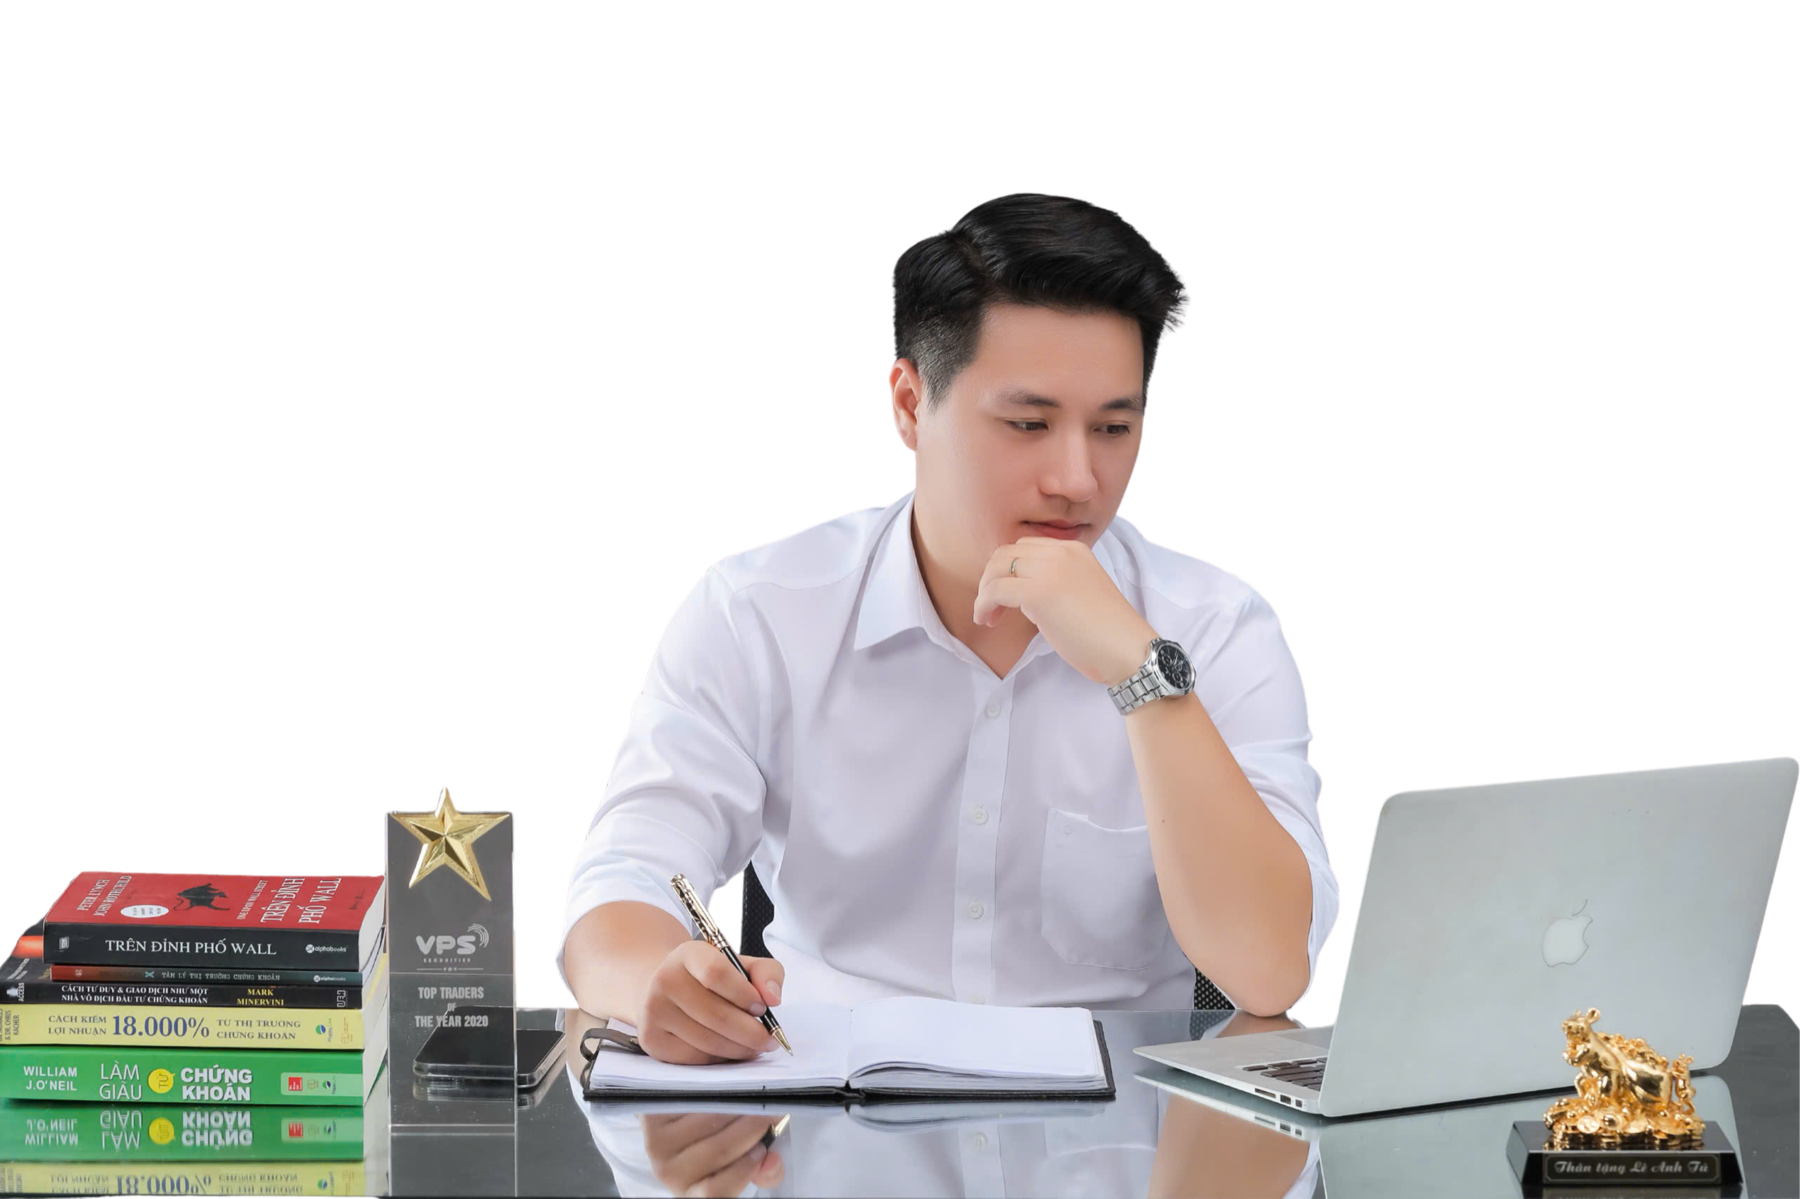
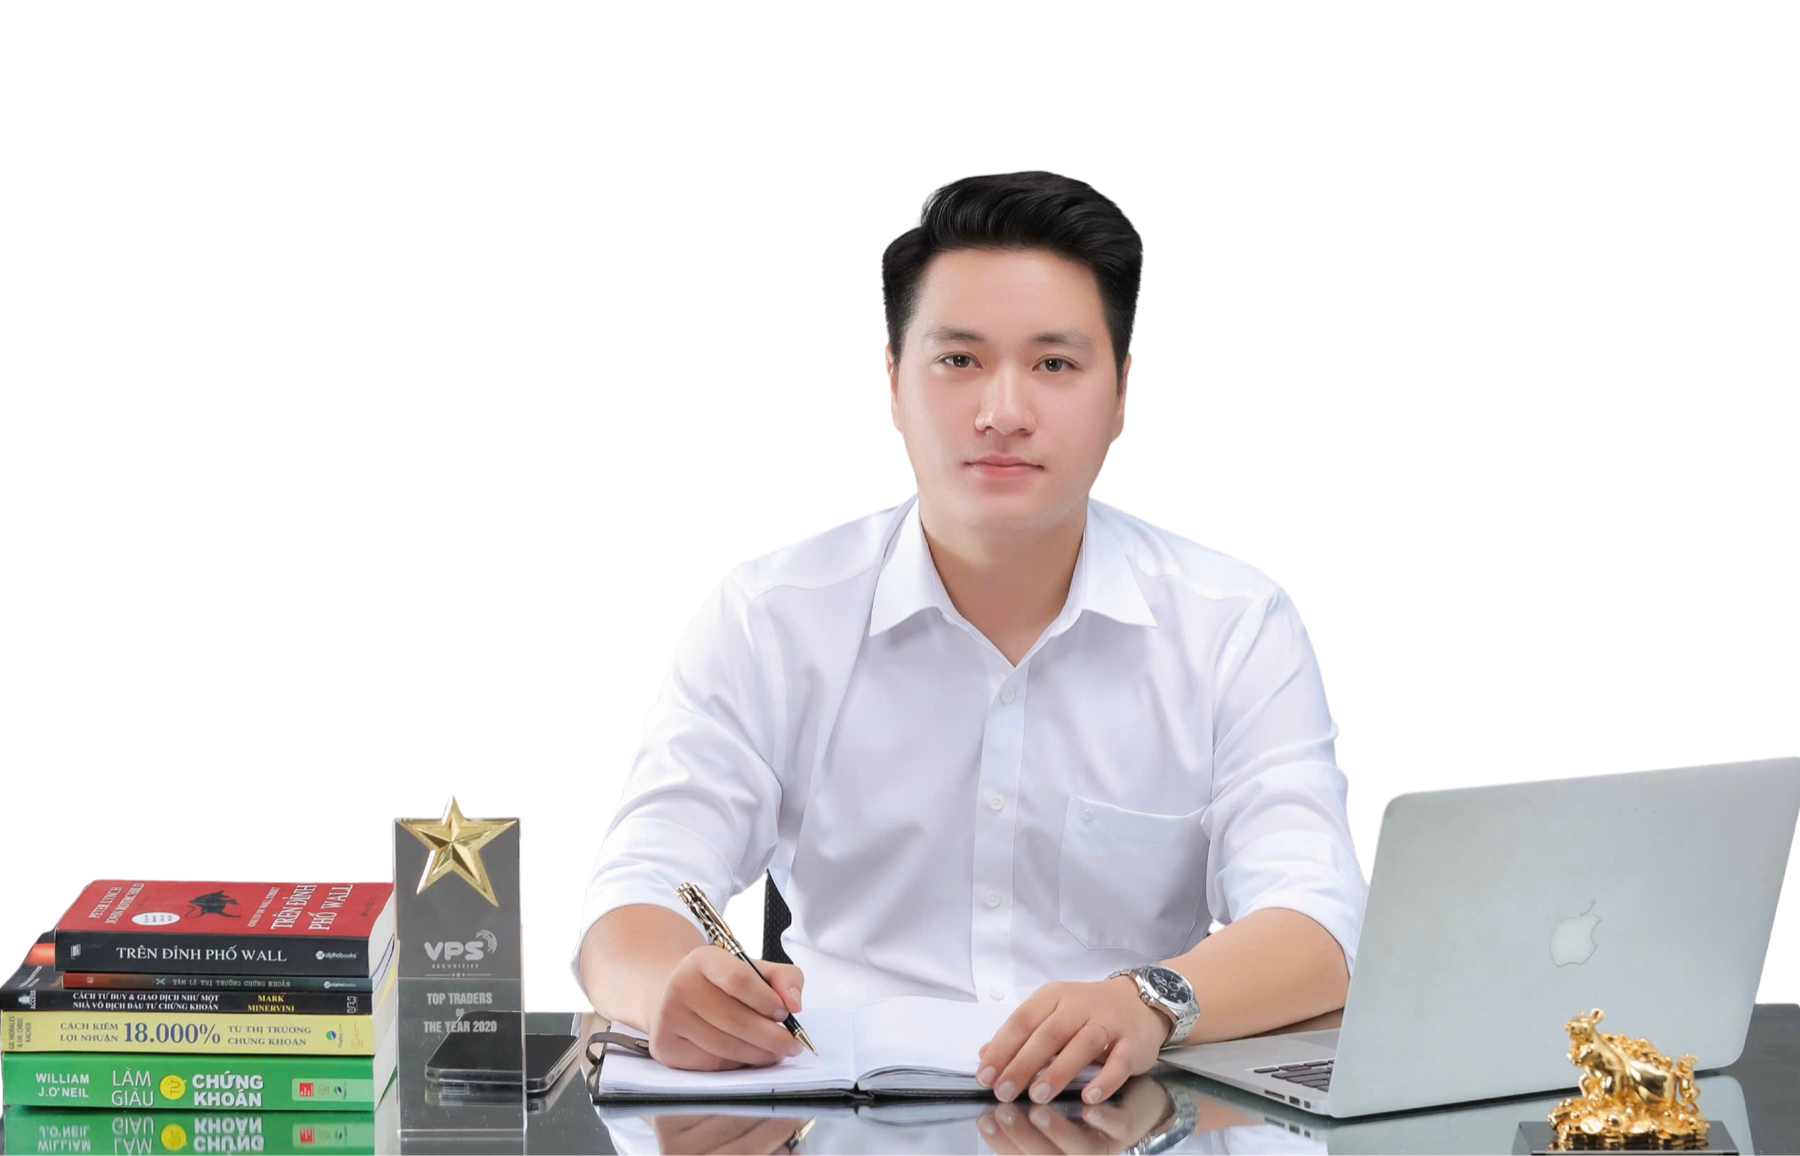
Refresh founder and lifestyle galleries

Changed region(s): [[0.0, 0.1246, 1.0, 1.0]]

diff --git a/src/assets/images.ts b/src/assets/images.ts
@@ -19,18 +19,15 @@ import partyStage from './optimized/gallery-party-stage.jpg'
 import partyBanquet from './optimized/gallery-party-banquet.jpg'
 import partyGuest from './optimized/gallery-party-guest.jpg'
 import partyCommunity from './optimized/gallery-party-community.jpg'
-import lifeWorking from './optimized/gallery-life-working.jpg'
-import lifeKoiGarden from './optimized/gallery-life-koi-garden.jpg'
-import lifeCafe from './optimized/gallery-life-cafe.jpg'
-import lifeEventHall from './optimized/gallery-life-event-hall.jpg'
-import lifePoolSelfie from './optimized/gallery-life-pool-selfie.jpg'
-import lifeResortOutdoor from './optimized/gallery-life-resort-outdoor.jpg'
-import lifeSunglasses from './optimized/gallery-life-sunglasses.jpg'
-import lifeResortLounge from './optimized/gallery-life-resort-lounge.jpg'
-import lifePoolLounge from './optimized/gallery-life-pool-lounge.jpg'
-import lifeResortGarden from './optimized/gallery-life-resort-garden.jpg'
-import lifeRestaurant from './optimized/gallery-life-restaurant.jpg'
-import lifeEventHallTwo from './optimized/gallery-life-event-hall-02.jpg'
+import relaxWorkingLaptop from './optimized/relax-working-laptop.jpg'
+import relaxEventHall from './optimized/relax-event-hall.jpg'
+import relaxKoiGarden from './optimized/relax-koi-garden.jpg'
+import relaxResortGarden from './optimized/relax-resort-garden.jpg'
+import relaxResortHallway from './optimized/relax-resort-hallway.jpg'
+import relaxBeachLounge from './optimized/relax-beach-lounge.jpg'
+import relaxPoolLounge from './optimized/relax-pool-lounge.jpg'
+import relaxWhiteShirt from './optimized/relax-white-shirt.jpg'
+import relaxCafeCandid from './optimized/relax-cafe-candid.jpg'
 
 export const images = {
   logo: { src: logo, alt: 'Logo HTG Investment màu xanh lá' },
@@ -61,17 +58,14 @@ export const galleries = {
     { src: partyCommunity, alt: 'Nguyễn Đức Tài giao lưu tại sự kiện cộng đồng nhà đầu tư', caption: 'Kết nối cộng đồng đầu tư' },
   ],
   personal: [
-    { src: lifeWorking, alt: 'Nguyễn Đức Tài làm việc tại quán cà phê trong chuyến đi', caption: 'Công việc không giới hạn không gian' },
-    { src: lifeKoiGarden, alt: 'Nguyễn Đức Tài tại khu vườn hồ cá koi', caption: 'Khoảng lặng để tái tạo năng lượng' },
-    { src: lifeCafe, alt: 'Nguyễn Đức Tài tại không gian cà phê xanh', caption: 'Nhịp sống cân bằng' },
-    { src: lifeEventHall, alt: 'Nguyễn Đức Tài tại sảnh sự kiện', caption: 'Một khoảnh khắc ngoài giờ làm việc' },
-    { src: lifePoolSelfie, alt: 'Nguyễn Đức Tài bên khu vực hồ bơi nghỉ dưỡng', caption: 'Một ngày bên hồ bơi' },
-    { src: lifeResortOutdoor, alt: 'Nguyễn Đức Tài trong không gian ngoài trời tại khu nghỉ dưỡng', caption: 'Tận hưởng không gian ngoài trời' },
-    { src: lifeSunglasses, alt: 'Nguyễn Đức Tài đeo kính tại khu vực hồ bơi', caption: 'Khoảnh khắc thư giãn' },
-    { src: lifeResortLounge, alt: 'Nguyễn Đức Tài tại khu vực lounge của khu nghỉ dưỡng', caption: 'Nạp lại năng lượng' },
-    { src: lifePoolLounge, alt: 'Nguyễn Đức Tài thư giãn trên ghế bên hồ bơi', caption: 'Khoảng nghỉ bên hồ bơi' },
-    { src: lifeResortGarden, alt: 'Nguyễn Đức Tài tại khu vườn trong chuyến nghỉ dưỡng', caption: 'Gần hơn với thiên nhiên' },
-    { src: lifeRestaurant, alt: 'Nguyễn Đức Tài tại không gian nhà hàng', caption: 'Khoảnh khắc đời thường' },
-    { src: lifeEventHallTwo, alt: 'Nguyễn Đức Tài tại sảnh lớn của sự kiện', caption: 'Một chuyến đi đáng nhớ' },
+    { src: relaxWorkingLaptop, alt: 'Nguyễn Đức Tài làm việc với laptop tại quán cà phê nhiều cây xanh', caption: 'Công việc không giới hạn không gian' },
+    { src: relaxEventHall, alt: 'Nguyễn Đức Tài trong trang phục trắng tại sảnh sự kiện', caption: 'Một dấu mốc trên hành trình trải nghiệm' },
+    { src: relaxKoiGarden, alt: 'Nguyễn Đức Tài thư giãn bên hồ cá koi trong khu vườn', caption: 'Khoảng lặng để tái tạo năng lượng' },
+    { src: relaxResortGarden, alt: 'Nguyễn Đức Tài tại khu vườn xanh của khu nghỉ dưỡng', caption: 'Gần hơn với thiên nhiên' },
+    { src: relaxResortHallway, alt: 'Nguyễn Đức Tài trong trang phục trắng tại hành lang khu nghỉ dưỡng', caption: 'Những ngày sống chậm hơn' },
+    { src: relaxBeachLounge, alt: 'Nguyễn Đức Tài đeo kính thư giãn trên ghế bên bãi biển', caption: 'Nạp lại năng lượng bên biển' },
+    { src: relaxPoolLounge, alt: 'Nguyễn Đức Tài thư giãn tại khu ghế nghỉ ngoài trời', caption: 'Một nhịp nghỉ giữa hành trình' },
+    { src: relaxWhiteShirt, alt: 'Chân dung đời thường Nguyễn Đức Tài trong trang phục áo trắng', caption: 'Khoảnh khắc giản dị ngoài công việc' },
+    { src: relaxCafeCandid, alt: 'Nguyễn Đức Tài trong khoảnh khắc đời thường tại nhà hàng khu nghỉ dưỡng', caption: 'Cân bằng để đi đường dài' },
   ],
 } as const

diff --git a/src/App.tsx b/src/App.tsx
@@ -551,7 +551,7 @@ function VisualStory() {
       title: 'Phía sau những giờ phân tích',
       text: 'Một vài khoảnh khắc đời thường được chọn lọc, nơi công việc, trải nghiệm và sự cân bằng gặp nhau.',
       photos: galleries.personal,
-      columns: 'lg:columns-4',
+      columns: 'lg:columns-3',
     },
   ]
 
@@ -560,17 +560,18 @@ function VisualStory() {
       <SectionTitle eyebrow="Thư viện hình ảnh" title="Một hành trình được kể bằng những khoảnh khắc thật." text="Hình ảnh được tuyển chọn từ các sự kiện cộng đồng và những khoảnh khắc đời thường của Tài Trần; mỗi nhóm được đặt đúng bối cảnh thay vì sử dụng như hình minh họa ngẫu nhiên." />
       <div className="mt-16 space-y-20">
         {groups.map(group => <div key={group.title}>
-          <div className="mb-7 grid gap-3 border-l-2 border-emerald-500 pl-5 md:grid-cols-[.55fr_1fr] md:items-end">
+          <div className="mb-7 grid gap-3 border-l-2 border-emerald-500 pl-5 md:grid-cols-[.55fr_1fr_auto] md:items-end">
             <div>
               <p className="text-xs font-extrabold uppercase tracking-[.18em] text-emerald-600">{group.eyebrow}</p>
               <h3 className="mt-2 text-2xl font-extrabold tracking-tight text-ink">{group.title}</h3>
             </div>
             <p className="max-w-2xl text-sm leading-6 text-slate-500">{group.text}</p>
+            <span className="hidden rounded-full border border-emerald-900/10 bg-mist px-3 py-1.5 text-xs font-bold text-forest md:inline-flex">{group.photos.length} khoảnh khắc</span>
           </div>
           <div className={`columns-2 gap-4 ${group.columns}`}>
-            {group.photos.map((photo, index) => <motion.figure {...reveal} transition={{ duration: .4, delay: index * .04 }} key={photo.src} className="group relative mb-4 break-inside-avoid overflow-hidden rounded-2xl bg-mist">
+            {group.photos.map((photo, index) => <motion.figure {...reveal} transition={{ duration: .4, delay: index * .04 }} key={photo.src} className="group relative mb-4 break-inside-avoid overflow-hidden rounded-2xl border border-emerald-950/10 bg-mist shadow-sm">
               <img src={photo.src} alt={photo.alt} loading="lazy" className="h-auto w-full transition duration-500 group-hover:scale-[1.025]" />
-              <figcaption className="absolute inset-x-0 bottom-0 bg-gradient-to-t from-black/75 via-black/30 to-transparent px-4 pb-4 pt-12 text-xs font-semibold leading-5 text-white opacity-0 transition group-hover:opacity-100 group-focus-within:opacity-100">{photo.caption}</figcaption>
+              <figcaption className="absolute inset-x-0 bottom-0 bg-gradient-to-t from-black/80 via-black/25 to-transparent px-4 pb-4 pt-16 text-xs font-semibold leading-5 text-white opacity-100 transition sm:opacity-0 sm:group-hover:opacity-100">{photo.caption}</figcaption>
             </motion.figure>)}
           </div>
         </div>)}
